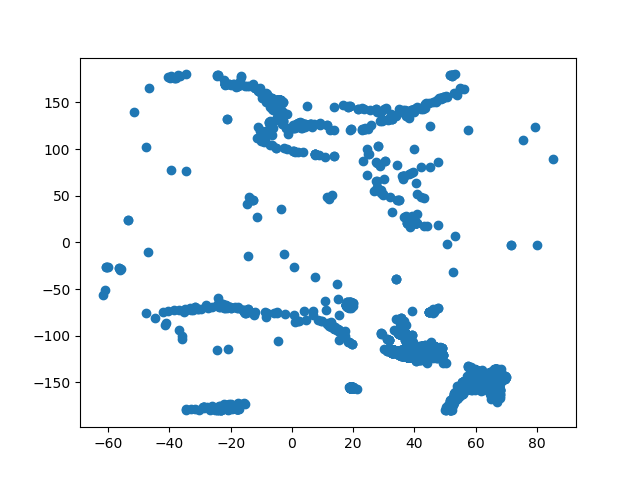
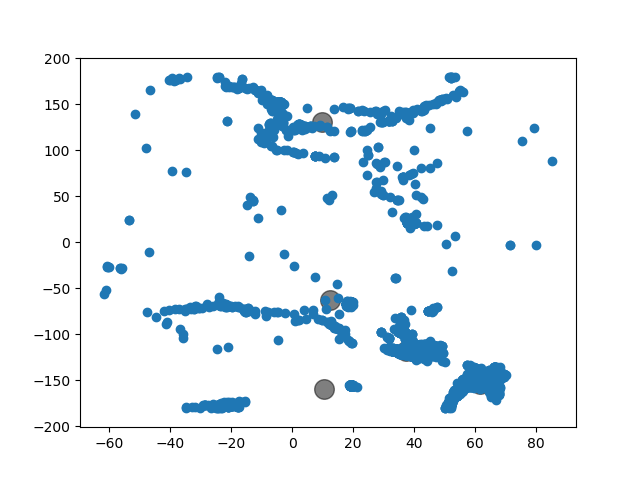
ch

diff --git a/main.py b/main.py
@@ -219,12 +219,15 @@ def cluster_plot():
     X = y.dropna()
     print(X[0])
     fig = plt.figure()
-
+    centers = k.cluster_centers_
+    plt.scatter(centers[:, 0], centers[:, 1], c='black', s=200, alpha=0.5)
     plt.scatter(X[0], X[1])
     # print(X[:,0])
     plt.show()
     fig.savefig('static/img.png')
     # print(k.cluster_centers_)
     return render_template("clus_o.html", data=rows)
+
+
 if __name__ == '__main__':
   app.run()
